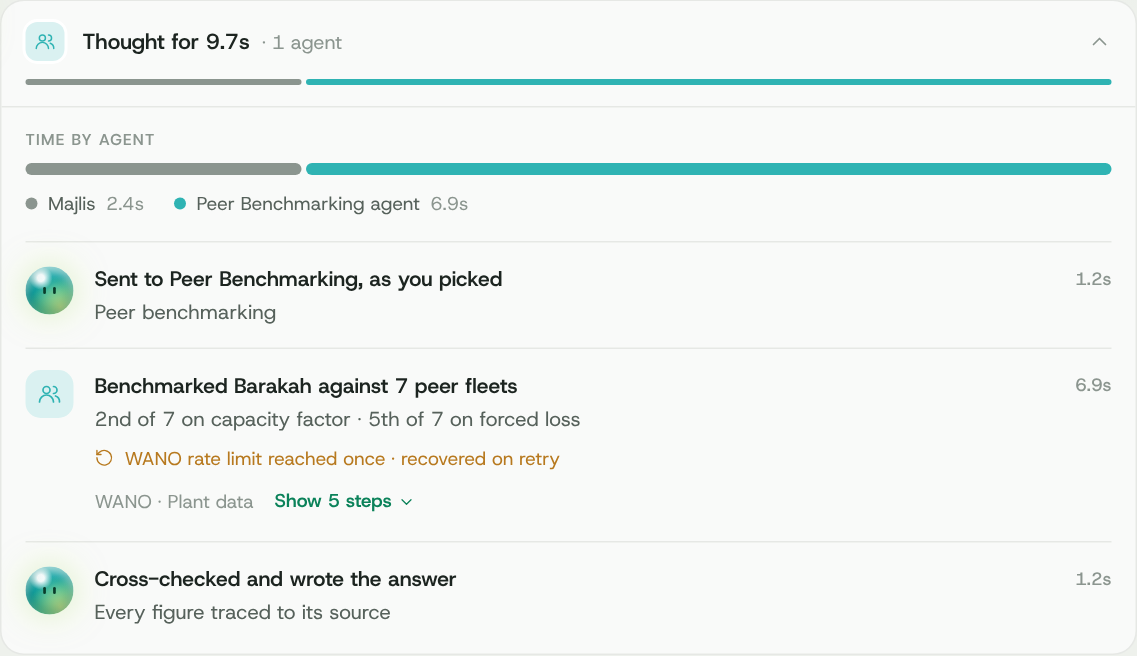
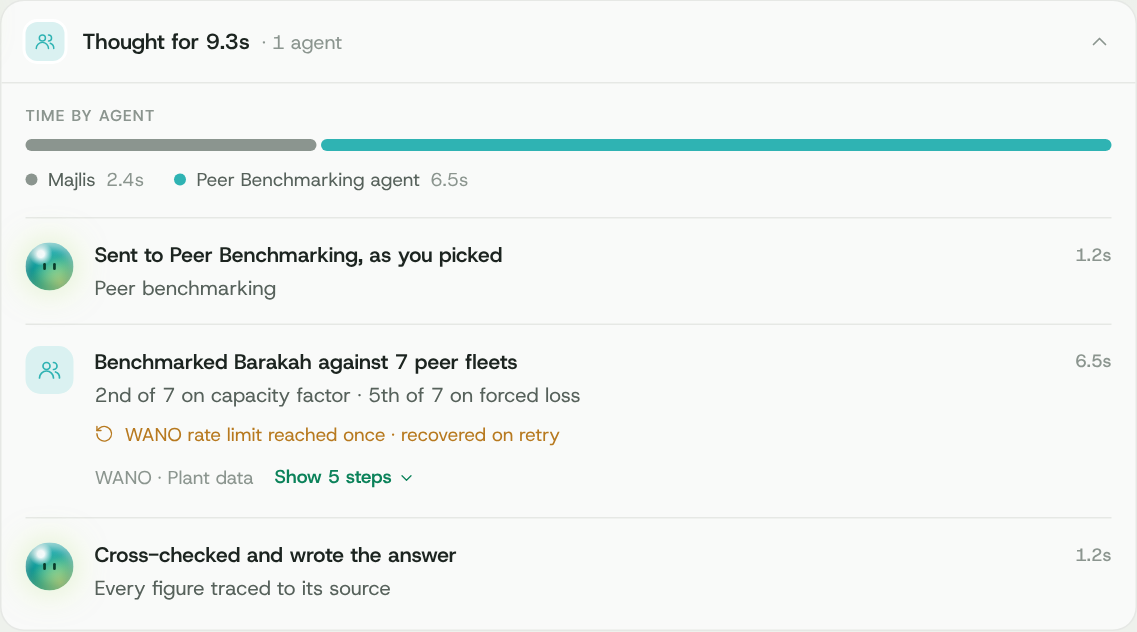
Time By Agent: take the time bar out of the header
The collapsed header is now a single line. Time by agent appears only
inside the opened panel, and shows there while running too, updating
live, since the header bar was the only live time view.

Claude-Session: https://claude.ai/code/session_016VBA5AsZWUyJNu9qqBj7Fk

diff --git a/Majlis_Dashboard_-_Agents_Evaluation_-_Time_By_Agent.html b/Majlis_Dashboard_-_Agents_Evaluation_-_Time_By_Agent.html
@@ -756,8 +756,8 @@ blockquote{margin:0;padding:12px 16px;border-radius:var(--rs);background:var(--t
 /* spacing scale 4 · 8 · 12 · 16; the box pads 16, rows pad 14 top and bottom, every column (icon, text, time) lines up down the box */
 .tb{align-self:stretch;min-width:0;border-radius:var(--r);background:var(--card);border:1px solid var(--line);transition:border-color .5s,box-shadow .5s}
 .tb:not(.is-done){border-color:color-mix(in srgb,var(--accent) 35%,var(--line));box-shadow:0 0 0 3px var(--accent-soft)}
-/* head · who · what · how long, then a thin bar of time by agent */
-.tb__h{display:flex;flex-direction:column;gap:12px;width:100%;padding:14px 16px;border-radius:var(--r);text-align:start;transition:background .2s}
+/* head · who · what · how long */
+.tb__h{display:flex;flex-direction:column;width:100%;padding:14px 16px;border-radius:var(--r);text-align:start;transition:background .2s}
 .tb__h:hover{background:var(--tile)}.tb__h:focus-visible,.tb__more:focus-visible{outline:none;box-shadow:inset 0 0 0 2px var(--accent)}
 .tb__l{display:flex;align-items:center;gap:12px;width:100%;min-width:0}
 .tb__hl{flex:1;min-width:0;margin:-4px}.tb__hl>.swp__i{gap:12px;padding:4px}
@@ -2590,7 +2590,7 @@ function traceFor(q, sel, files) { const P = planFor(q, sel, files), picked = se
 const runs = () => S.chat.map(m => m.run).filter(Boolean), runById = id => runs().find(r => r.id === id), fin = s => s.st !== 'q' && s.st !== 'run';
 const cur = r => r.steps.filter(s => s.st === 'run').sort((a, b) => b.t0 - a.t0)[0] || r.steps.find(s => s.st === 'q') || r.steps[r.steps.length - 1];
 const agentsOf = r => [...new Set(r.steps.map(s => s.a))].filter(a => a !== 'majlis'), prog = r => r.steps.filter(fin).length / r.steps.length;
-/* ---------- thinking in the conversation · results with time by agent: one line and a thin time bar; opened, a "Time by agent" breakdown
+/* ---------- thinking in the conversation · results with time by agent: one line; opened, a "Time by agent" breakdown
    and one row per piece of work (what was done, what it found, where from, how long), with the individual steps only on request ---------- */
 _m(TX.en, { tb: { tba: 'Time by agent', par: 'In parallel', show: 'Show {n} steps', hide: 'Hide steps', agents1: '1 agent', agentsN: '{n} agents', waiting: 'Waiting for {a}' } });
 _m(TX.ar, { tb: { tba: 'الوقت لكل وكيل', par: 'بالتوازي', show: 'عرض {n} خطوات', hide: 'إخفاء الخطوات', agents1: 'وكيل واحد', agentsN: '{n} وكلاء', waiting: 'بانتظار {a}' } });
@@ -2640,7 +2640,7 @@ function tbSegs(r) { const [pl, ...rest] = r.T.phases, pt = rest.pop(), plan = p
   const m = { a: 'majlis', ms: el(pl) + el(pt), w: (el(pl) || plan(pl)) + (el(pt) || plan(pt)), st: pt.st === 'q' && pl.st !== 'run' ? 'done' : pl.st === 'run' || pt.st === 'run' ? 'run' : 'done' };
   return [m, ...rest.map(p => ({ a: p.a, id: p.id, ms: el(p), w: Math.max(el(p), p.st === 'q' || p.st === 'run' ? plan(p) : 0) || plan(p), st: p.st === 'q' ? 'q' : p.st === 'run' ? 'run' : 'done' }))]; }
 const tbBar = (r, cls = '') => `<div class="tb__bar ${cls}" aria-hidden="true">${tbSegs(r).map(s => `<i class="is-${s.st}" data-seg="${s.a}" style="--w:${(s.w / 1000).toFixed(2)};--c:${COL(s.a)}"></i>`).join('')}</div>`;
-const tbTba = r => `<div class="tb__tba"><span class="tb__lbl">${t('tb.tba')}</span>${tbBar(r, 'is-lg')}<div class="tb__lg">${tbSegs(r).map(s => `<span style="--c:${COL(s.a)}"><i></i>${s.a === 'majlis' ? 'Majlis' : esc(AG[s.a].n)}<em>${secs(s.ms)}</em></span>`).join('')}</div></div>`;
+const tbTba = r => `<div class="tb__tba"><span class="tb__lbl">${t('tb.tba')}</span>${tbBar(r, 'is-lg')}<div class="tb__lg">${tbSegs(r).map(s => `<span style="--c:${COL(s.a)}"><i></i>${s.a === 'majlis' ? 'Majlis' : esc(AG[s.a].n)}<em data-lg="${s.a}">${secs(s.ms)}</em></span>`).join('')}</div></div>`;
 /* header · who, what, how long; exceptions only when there are some */
 const tbWho = r => agentsOf(r).filter(a => r.done || r.steps.some(s => s.a === a && s.st !== 'q'));
 const tbAv = r => { const u = tbWho(r); return `<span class="ag-stack tb__av">${(u.length ? u : ['majlis']).map(a => agAv(a)).join('')}</span>`; };
@@ -2651,8 +2651,8 @@ function tbEx(r) { const w = r.steps.filter(s => s.st === 'warn').length, f = r.
   return (f ? `<span class="tb__ex is-bad"><i></i>${f === 1 ? t('tt.fail1') : t('tt.failN', { n: f })}</span>` : '') + (w ? `<span class="tb__ex"><i></i>${w === 1 ? t('tt.warn1') : t('tt.warnN', { n: w })}</span>` : ''); }
 const tbHead = r => `${tbAv(r)}<span class="tb__tt"><b>${r.done ? t('tt.thought', { s: secs(r.ms) }) : t('tt.thinking')}</b><span>${tbSub(r)}</span></span>${tbEx(r)}`;
 const ttHTML = r => `<div class="tb${r.open ? ' is-open' : ''}${r.done ? ' is-done' : ''}" data-tt="${r.id}"><button class="tb__h" type="button" data-tt-t="${r.id}" aria-expanded="${!!r.open}">
-  <span class="tb__l">${swHTML('tb__hl', tbHead(r))}<time class="tb__t" data-run-t="${r.done ? '' : r.id}">${r.done ? '' : secs(Date.now() - r.t0)}</time>${ico('chevDown', 16, 'tb__cv')}</span>${tbBar(r)}</button>
-  <div class="tb__fold"><div><div class="tb__b">${r.done ? tbTba(r) : ''}<div class="tb__rows">${r.T.phases.map(p => rowHTML(p, r)).join('')}</div></div></div></div></div>`;
+  <span class="tb__l">${swHTML('tb__hl', tbHead(r))}<time class="tb__t" data-run-t="${r.done ? '' : r.id}">${r.done ? '' : secs(Date.now() - r.t0)}</time>${ico('chevDown', 16, 'tb__cv')}</span></button>
+  <div class="tb__fold"><div><div class="tb__b">${tbTba(r)}<div class="tb__rows">${r.T.phases.map(p => rowHTML(p, r)).join('')}</div></div></div></div></div>`;
 const noteMs = () => 0;
 const srcsHTML = src => !src.length ? '' : `<div class="srcs"><small>${t('basedOn')}</small>${src.map(s => `<span>${s}</span>`).join('')}</div>`;
 const botHTML = m => `<div class="msg msg--b" data-m="${m.run.id}">${orb('orb--sm')}<div class="msg__c">${ttHTML(m.run)}${m.ans ? m.ans + srcsHTML(m.src) : ''}</div></div>`;
@@ -2662,15 +2662,14 @@ function paintAgentNow() { const el = $('#chatAgent'); if (!el) return; if (!el.
 function paintRun(r) { const p = $('#chatThread'), near = p && p.scrollHeight - p.scrollTop - p.clientHeight < 220, el = $(`[data-tt="${r.id}"]`);
   if (el) { el.classList.toggle('is-open', !!r.open); el.classList.toggle('is-done', !!r.done); const h = $('.tb__h', el); h.setAttribute('aria-expanded', !!r.open); swap($('.tb__hl', h), tbHead(r));
     if (r.done) { const tm = $('.tb__t', h); tm.removeAttribute('data-run-t'); tm.textContent = ''; }
-    const bar = $(':scope > .tb__bar', h); bar.outerHTML = tbBar(r);
-    const b = $('.tb__b', el); if (r.done && !$('.tb__tba', b)) { b.insertAdjacentHTML('afterbegin', tbTba(r)); pulseCls($('.tb__tba', b), 'is-new'); }
+    const tba = $('.tb__tba', el), k = tbSegs(r).map(x => x.st).join(); if (tba.dataset.k !== k) { tba.outerHTML = tbTba(r); $('.tb__tba', el).dataset.k = k; }
     r.T.phases.forEach(ph => { const e = $(`.tb__row[data-ph="${ph.id}"]`, el); if (!e || e.dataset.sig === rowSig(ph, r)) return; const wasHid = e.classList.contains('is-hid'); e.outerHTML = rowHTML(ph, r);
       if (wasHid && rowVis(ph, r)) pulseCls($(`.tb__row[data-ph="${ph.id}"]`, el), 'is-new'); }); }
   paintAgentNow(); applyMood(); if (near && !r.done) stick(p, 500); }
 /* the clock · header time, running rows and the running parts of the bar */
 function ttTick(r) { $$(`[data-run-t="${r.id}"]`).forEach(e => { e.textContent = secs(Date.now() - r.t0); }); const el = $(`[data-tt="${r.id}"]`); if (!el) return;
   r.T.phases.forEach(p => { if (p.st === 'run') { const e = $(`[data-tbt="${p.id}"]`, el); if (e) e.textContent = pTm(p); } });
-  tbSegs(r).forEach(s => { const e = $(`.tb__h > .tb__bar [data-seg="${s.a}"]`, el); if (e) e.style.setProperty('--w', (s.w / 1000).toFixed(2)); }); }
+  tbSegs(r).forEach(s => { const e = $(`.tb__tba [data-seg="${s.a}"]`, el), g = $(`.tb__tba [data-lg="${s.a}"]`, el); if (e) e.style.setProperty('--w', (s.w / 1000).toFixed(2)); if (g) g.textContent = secs(s.ms); }); }
 /* steps on request */
 document.addEventListener('click', e => { const b = e.target.closest('[data-tb-s]'); if (!b) return; const [ri, pi] = b.dataset.tbS.split(':'), r = runById(ri), p = r && r.T.phases.find(x => x.id === pi); if (!p) return;
   p.show = !p.show; paintRun(r); });
